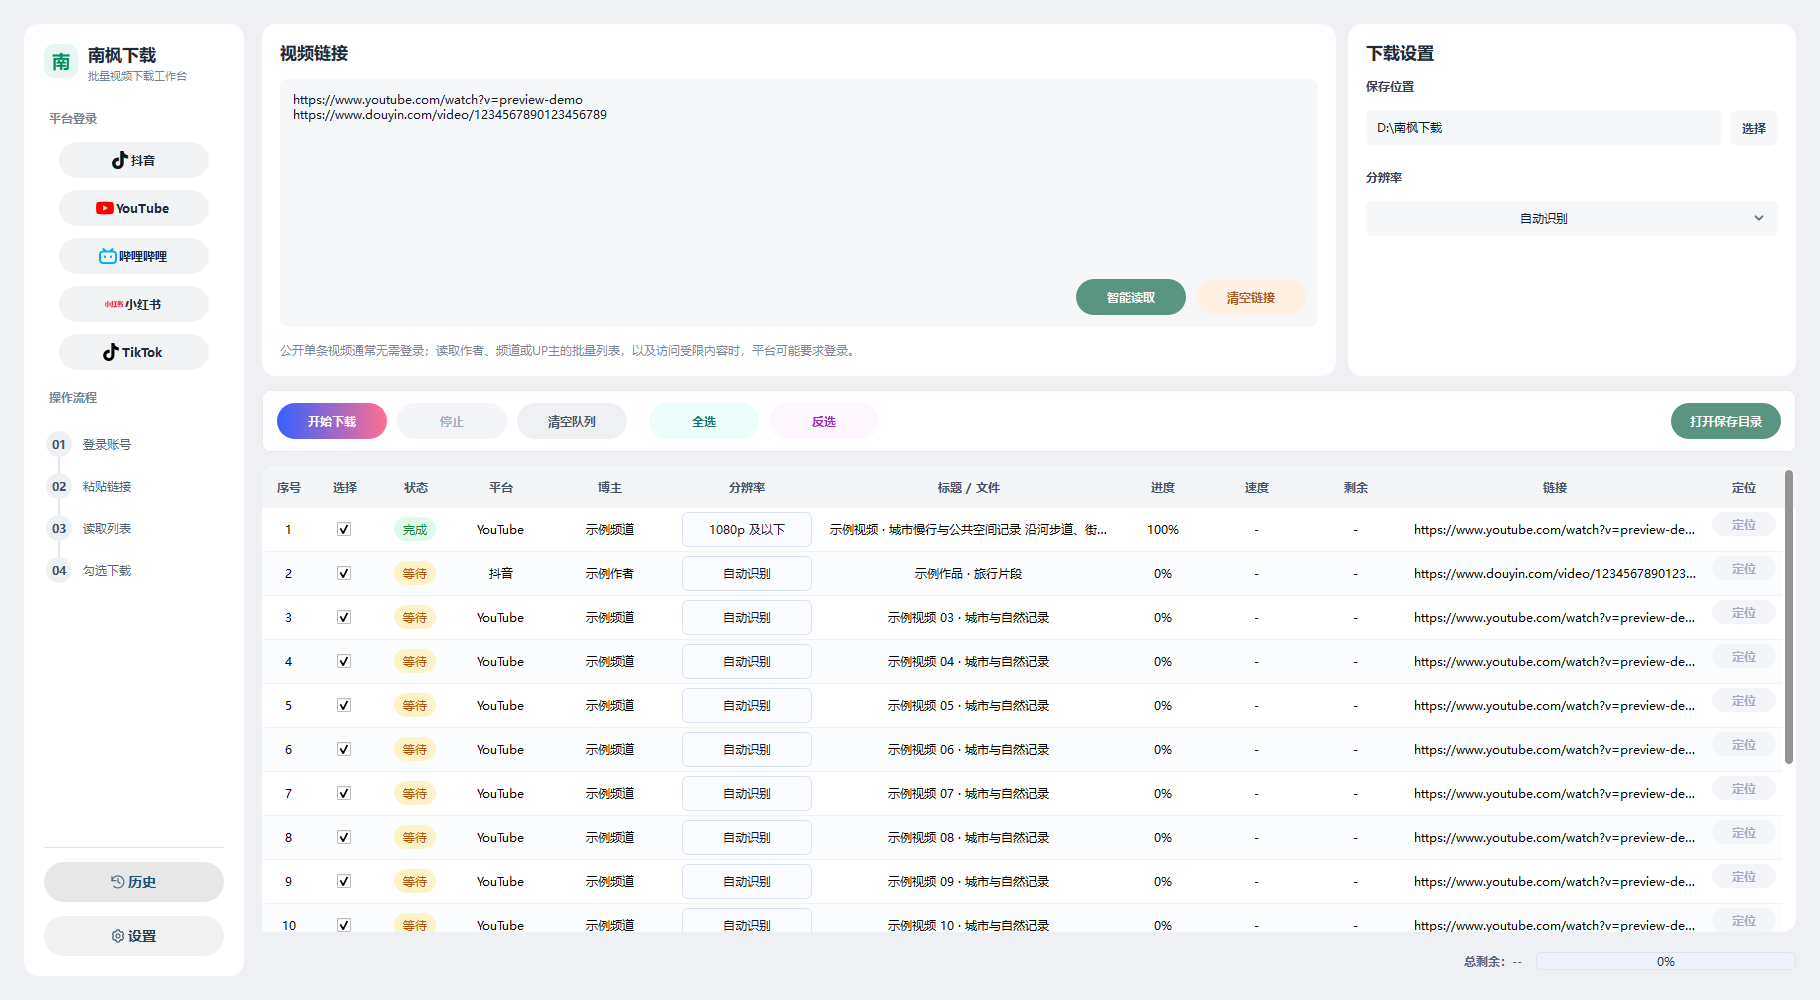
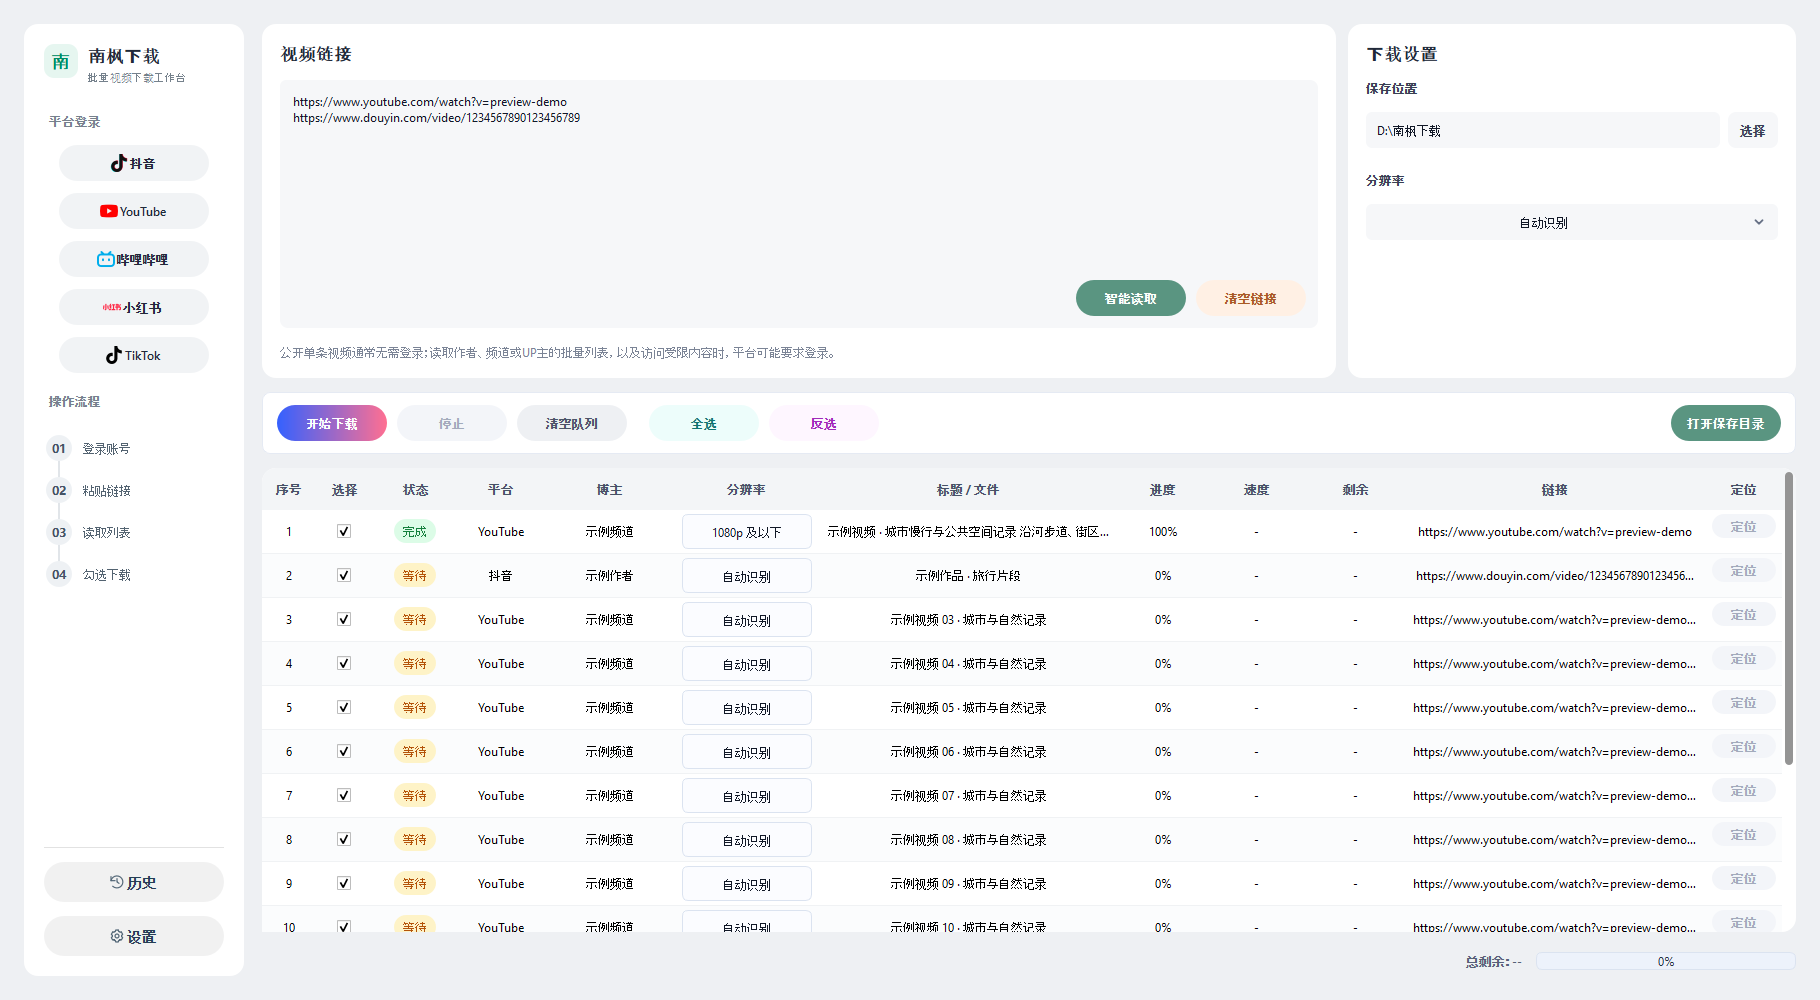
Document v2026.10.16.2 release verification and frozen interface previews

diff --git a/docs/verification/release-20261016-2.md b/docs/verification/release-20261016-2.md
@@ -1,0 +1,16 @@
+# Windows v2026.10.16.2 发布验证
+
+- 发布源码：`901c2ce734ab71c31add80bd528041f83eaa2038`；标签 `v2026.10.16.2-windows` 指向该准确提交。
+- [正式 Release](https://github.com/nanzhufeng/NanfengDownloader-Windows/releases/tag/v2026.10.16.2-windows)，发布时间2026-10-16 19:21（北京时间），非预发布、非草稿，GitHub latest已指向本版。
+- [Windows构建运行38892386641](https://github.com/nanzhufeng/NanfengDownloader-Windows/actions/runs/38892386641)成功；231项完整测试40.482秒通过，本地同231项33.340秒通过。
+- 云端统一入口构建：PyInstaller43.631秒、启动14.015秒、Inno7压缩166.662秒，总224.428秒；冻结启动、窗口响应、Node随包存在、FFmpeg9.0.1可执行检查通过。
+- 唯一附件 `NanfengDownloader-Windows-v2026.10.16.2-Setup.exe`，183695425字节，PE版本2026.10.16.2（读取时去掉资源字段尾部空格），实际Authenticode状态 `NotSigned`。
[1 lines of base64/hex data omitted]
+- README采用本次云端冻结EXE真实生成的工作台／历史／设置截图；数据为脱敏队列与真实生成的合成风景媒体，没有启动公网下载。界面预览只放README，Release不附图片、ZIP或TXT。
+- 14项发布结构检查通过。完整云端候选包SHA-256比对完成，最终收据已写入本地正式交付目录。
+
+## 验证边界
+
+本轮未将精确云端包实际安装到用户系统，也未重验安装／升级／卸载、物理多DPI或冻结播放器所有编码格式及听音。源码播放器真实媒体及交互证据沿用各专项记录，不能升级为当前冻结包全链播放验收。Windows未签名按默认规则公开发布，不称正式签名。
+
+本地安装包在 `D:/ReleaseUpload/NanfengDownloader/`；收据在同目录 `receipt-v2026.10.16.2.json`。该目录与云端候选材料不进入源码仓库。安装包冻结后不重新生成或覆盖已发布附件。

diff --git a/docs/PROJECT_STATUS.md b/docs/PROJECT_STATUS.md
@@ -1,5 +1,10 @@
 # 南枫下载 Windows 项目状态
 
+## v2026.10.16.2 已正式发布并完成回验（2026-10-16）
+- 正式Release／latest：v2026.10.16.2-windows；源码标签901c2ce，云端运行38892386641成功，包含本轮历史、内嵌播放器、原标题、抖音传输及流畅度改动。231项本地／云端完整测试通过；冻结启动、随包Node与FFmpeg9.0.1、14项发布结构检查通过。
+- 唯一Setup EXE为183695425字节，PE版本2026.10.16.2，实际NotSigned。正式下载与完整云候选SHA-256均为76f847927e50d2f0a4da405754dd93c8ffacd8d8fa1fc9dceaf4e112e2b37943，也与GitHub资产摘要一致。README已更新为云端冻结EXE的工作台／历史／设置实际预览。
+- 安装包在D:/ReleaseUpload/NanfengDownloader/，同目录receipt-v2026.10.16.2.json记录完整来源；详细证据见docs/verification/release-20261016-2.md。精确云包在用户系统的安装／升级／卸载、多DPI及冻结播放器听音／完整编码器未重验。以下未发布条目保留为本轮开发历史，本节覆盖其当前发布状态。
+
 ## v2026.10.16.2 发布准备（2026-10-16）
 - 本轮历史、内嵌播放器、原标题、抖音连接与UI响应改动进入正式发布范围；版本／开发时间和简短说明已更新。231项完整本地回归33.340秒通过，compileall通过；当前源码的工作台／历史／设置脱敏预览已更新。
 - 采用既定GitHub Windows构建与上传流程；云端构建、最终安装包与下载回验尚待执行，不以准备状态冒称已发布。Windows默认未签名。

diff --git a/CURRENT_HANDOFF.md b/CURRENT_HANDOFF.md
@@ -1,3 +1,5 @@
+2026-10-16 发布闭环完成：v2026.10.16.2-windows为正式latest，源码标签901c2ce734ab71c31add80bd528041f83eaa2038；云端运行38892386641成功。231项完整测试、冻结启动、随包工具、14项发布结构检查通过。183695425字节Setup的正式下载／完整云候选／GitHub摘要一致，实际NotSigned；收据D:/ReleaseUpload/NanfengDownloader/receipt-v2026.10.16.2.json，说明docs/verification/release-20261016-2.md。README采用本版冻结EXE实际预览。未实际安装／卸载精确云包，其他验收边界见说明；版本包已冻结，不重建覆盖。后续记录为开发历史。
+
 2026-10-16 UI响应优化：进度单元格复用及100ms合并总进度、未变化历史卡片复用和排版回调合并已落地；231项完整回归34.777秒通过。隔离性能与边界见docs/verification/ui-responsiveness-20261016.md。未提交／打包／发布，不覆盖既有WIP，入口启动南枫下载.bat。
 
 ## 2026-10-16 播放器最新纠正（覆盖前述弹窗形态）

diff --git a/README.md b/README.md
@@ -12,7 +12,7 @@
 
 ![南枫下载 Windows 下载历史](docs/assets/nanfeng-downloader-windows-history.png)
 
-预览来自 Windows v2026.10.16.2 的当前源码实际运行界面：主工作台 1820 × 1000、设置页 760 × 620；队列与历史为脱敏演示数据，历史封面来自合成风景媒体，未启动公网下载。
+预览来自 Windows v2026.10.16.2 的冻结 EXE 实际运行界面：主工作台 1820 × 1000、设置页 760 × 620；队列与历史为脱敏演示数据，历史封面来自合成风景媒体，未启动公网下载。
 
 ## 下载安装
 
